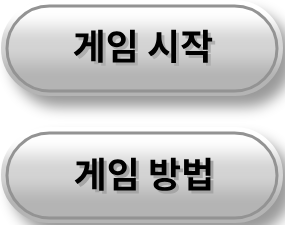
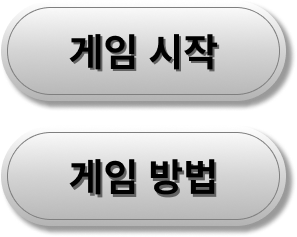
리소스 변경 및 해야 할 일 갱신

diff --git a/GDITetris/TitleScene.cpp b/GDITetris/TitleScene.cpp
@@ -11,25 +11,23 @@ void TitleScene::Initialize(NzWndBase* pWnd)
 	m_pGame = dynamic_cast<Tetris*>(pWnd);
 	assert(m_pGame != nullptr && "Game object is not initialized!");
 
-	Background* pNewObject = new Background(ObjectType::BACKGROUND);
-	pNewObject->SetPosition(0.0f, 0.0f);
+	m_pBackground = new Background(ObjectType::BACKGROUND);
+	m_pBackground->SetPosition(0.0f, 0.0f);
 
 	int width = m_pGame->GetWidth();
 	int height = m_pGame->GetHeight();
 
 	learning::SetScreenSize(width, height);
 
-	pNewObject->SetWidth(512);
-	pNewObject->SetHeight(512);
+	m_pBackground->SetWidth(1280);
+	m_pBackground->SetHeight(960);
 
-	pNewObject->SetBitmapInfo(m_pGame->GetBackgroundBitmapInfo());
+	m_pBackground->SetBitmapInfo(m_pGame->GetBackgroundBitmapInfo());
 
 	m_rect.left = width / 2 - 275;
 	m_rect.top = height / 2 + 25;
 	m_rect.right = m_rect.left + 550;
 	m_rect.bottom = m_rect.top + 100;
-
-	m_pBackground = pNewObject;
 
 	m_pKey = new Background(ObjectType::BACKGROUND);
 	m_pKey->SetPosition(0.0f, 0.0f);
@@ -42,8 +40,8 @@ void TitleScene::Initialize(NzWndBase* pWnd)
 	m_pButton = new Background(ObjectType::BACKGROUND);
 	m_pButton->SetPosition(0.0f, 0.0f);
 
-	m_pButton->SetWidth(285);
-	m_pButton->SetHeight(225);
+	m_pButton->SetWidth(297);
+	m_pButton->SetHeight(237);
 
 	m_pButton->SetBitmapInfo(m_pGame->GetButtonBitmapInfo());
 
@@ -66,8 +64,8 @@ void TitleScene::Render(HDC hDC)
 {
 	assert(m_pGame != nullptr && "Game object is not initialized!");
 
-	m_pBackground->Render(hDC, RGB(255, 0, 0));
-	m_pButton->DrawBitmap(hDC, 490, 400, 285, 225);
+	m_pBackground->DrawBitmap(hDC, 0, 0, 1280, 960);
+	m_pButton->DrawBitmap(hDC, 490, 420, 297, 237);
 
 	if (isClickedMethod)
 	{
@@ -82,14 +80,14 @@ void TitleScene::OnClicked(int x, int y)
 		m_pSoundManager->PlaySFX(m_pSoundManager->SOUND_CLICK, 0.4f);
 	}
 
-	if (x >= 490 && x <= 775)
+	if (x >= 490 && x <= 780)
 	{
-		if (y >= 400 && y <= 500)
+		if (y >= 420 && y <= 530)
 		{
 			isClickedStart = true;
 		}
 
-		if (y >= 525 && 625)
+		if (y >= 540 && 650)
 		{
 			isClickedMethod = true;
 		}

diff --git a/GDITetris/TitleScene.h b/GDITetris/TitleScene.h
@@ -26,7 +26,7 @@ public:
     void OnClicked(int x, int y) override;
 private:
 
-    GameObjectBase* m_pBackground = nullptr;
+    Background* m_pBackground = nullptr;
     Background* m_pKey = nullptr;
     Background* m_pButton = nullptr;
 
